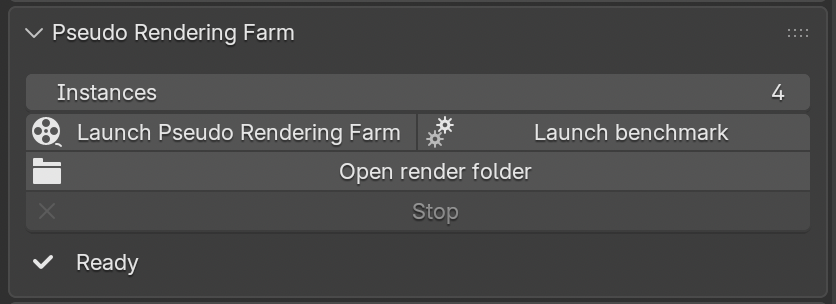
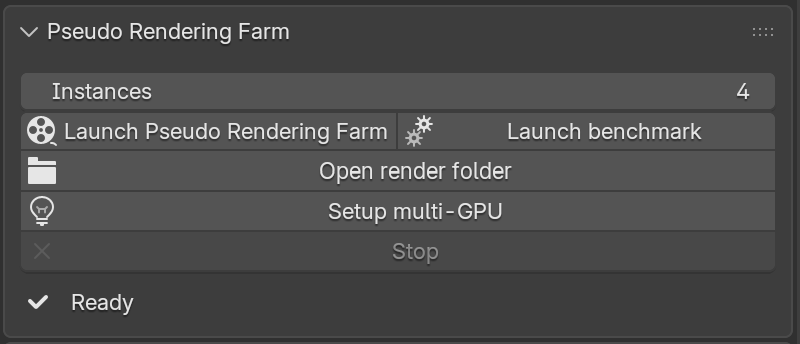
Add multi-GPU support (#12)

diff --git a/__init__.py b/__init__.py
@@ -2,6 +2,7 @@ import bpy
 import os
 from pathlib import Path
 import platform
+import re
 import shutil
 import subprocess
 import tempfile
@@ -24,6 +25,20 @@ class Globals:
     declining_streak = 0
     peak_throughput = 0
 
+    gpu_detection_active = False
+    userpref_process = None
+    userpref_path = ""
+
+    dummy_scene_process = None
+
+    gpu_discovery_processes = []
+
+    gpu_devices = []
+    gpu_devices_envs = []
+    gpu_detected = False
+    gpu_configured = False
+    gpu_config_dir = ""
+
 
 def is_image_valid(filepath):
     """Checks if an image file is complete by looking for format-specific footers."""
@@ -44,7 +59,7 @@ def is_image_valid(filepath):
             elif ext == ".exr":
                 return os.path.getsize(filepath) > 1000
     except Exception as e:
-        print(f"Error checking {filepath}: {e}")
+        print(f"PseudoRenderingFarm: Error checking {filepath}: {e}")
         return False
 
     return True
@@ -67,7 +82,7 @@ def cleanup_corrupted_frames():
                     os.remove(file_path)
                     deleted_count += 1
                 except Exception as e:
-                    print(f"Failed to delete {filename}: {e}")
+                    print(f"PseudoRenderingFarm: Failed to delete {filename}: {e}")
 
     return deleted_count
 
@@ -115,7 +130,7 @@ def check_render_status():
         if (
             Globals.early_exit_benchmark
             or Globals.current_bench_instances >= 16
-            or Globals.declining_streak >= 2
+            or Globals.declining_streak >= 2 * max(len(Globals.gpu_devices), 1)
         ):
             best_count = max(
                 Globals.benchmark_results, key=Globals.benchmark_results.get
@@ -133,7 +148,7 @@ def check_render_status():
                     icon="CHECKMARK",
                 )
 
-            print(f"!!! Benchmarking stats for nerds !!!")
+            print(f"PseudoRenderingFarm: !!! Benchmarking stats for nerds !!!")
             print(Globals.benchmark_results)
 
             bpy.context.window_manager.popup_menu(
@@ -175,6 +190,129 @@ def check_render_status():
         return None
 
     return 1.0
+
+
+def check_multi_gpu_status():
+    setup_multi_gpu()
+    if Globals.gpu_configured:
+        for window in bpy.context.window_manager.windows:
+            for area in window.screen.areas:
+                area.tag_redraw()
+        return None
+
+    return 1.0
+
+
+def detect_gpus():
+    if Globals.gpu_detected:
+        return
+    Globals.gpu_detected = True
+    Globals.gpu_devices_envs = [os.environ.copy()]
+
+    try:
+        if "VULKAN" not in bpy.context.preferences.system.gpu_backend:
+            print("PseudoRenderingFarm: Non-Vulkan backend, multi-GPU not available")
+            return
+        try:
+            bpy.context.preferences.system.gpu_preferred_device = "___invalid___"
+        except TypeError as e:
+            Globals.gpu_devices = [
+                d for d in re.findall(r"'([^']+)'", str(e)) if d != "AUTO"
+            ]
+    except Exception as e:
+        print(f"PseudoRenderingFarm: GPU detection failed: {e}")
+
+
+def setup_multi_gpu():
+    if not Globals.userpref_path:
+        if Globals.userpref_process is None:
+            expr = "import bpy, os; print('USERPREF:' + os.path.join(bpy.utils.resource_path('USER'), 'config', 'userpref.blend'))"
+
+            Globals.userpref_process = subprocess.Popen(
+                [bpy.app.binary_path, "-b", "--python-expr", expr],
+                stdout=subprocess.PIPE,
+                stderr=subprocess.PIPE,
+                text=True,
+            )
+            return
+        status = Globals.userpref_process.poll()
+        if status is not None:
+            stdout, stderr = Globals.userpref_process.communicate()
+
+            for line in (stdout + stderr).splitlines():
+                if line.startswith("USERPREF:"):
+                    Globals.userpref_path = line[len("USERPREF:") :]
+                    return
+
+    if Globals.gpu_config_dir:
+        Globals.gpu_config_dir = tempfile.mkdtemp(prefix="gpu_config_")
+    scene_path = os.path.join(Globals.gpu_config_dir, "temp_scene.blend")
+
+    if not os.path.isfile(scene_path):
+        if Globals.dummy_scene_process is None:
+            expr = f"import bpy; bpy.ops.wm.read_homefile(); bpy.ops.wm.save_as_mainfile(filepath=r'{scene_path}')"
+
+            Globals.dummy_scene_process = subprocess.Popen(
+                [bpy.app.binary_path, "-b", "--python-expr", expr],
+                stdout=subprocess.PIPE,
+                stderr=subprocess.PIPE,
+                text=True,
+            )
+            return
+        status = Globals.dummy_scene_process.poll()
+        if status is None:
+            return
+
+    if len(Globals.gpu_discovery_processes) == 0:
+        Globals.gpu_devices_envs = []
+        for i, gpu_name in enumerate(Globals.gpu_devices):
+            gpu_dir = os.path.join(Globals.gpu_config_dir, f"gpu_{i}")
+            os.makedirs(gpu_dir, exist_ok=True)
+            shutil.copy2(Globals.userpref_path, os.path.join(gpu_dir, "userpref.blend"))
+
+            env = os.environ.copy()
+            env["BLENDER_USER_CONFIG"] = gpu_dir
+
+            cmd = [
+                bpy.app.binary_path,
+                scene_path,
+                "--python-expr",
+                f"import bpy; bpy.context.preferences.system.gpu_preferred_device = '{gpu_name}'; bpy.ops.wm.save_userpref(); bpy.ops.wm.quit_blender()",
+            ]
+            Globals.gpu_discovery_processes.append(
+                subprocess.Popen(
+                    cmd,
+                    env=env,
+                    stdout=subprocess.PIPE,
+                    stderr=subprocess.PIPE,
+                    text=True,
+                )
+            )
+
+            Globals.gpu_devices_envs.append(env)
+
+        if not Globals.gpu_devices_envs:
+            Globals.gpu_devices_envs = [os.environ.copy()]
+            return
+
+    if all(p.poll() is not None for p in Globals.gpu_discovery_processes):
+        Globals.gpu_configured = True
+    return
+
+
+def cleanup_gpu_config():
+    if Globals.gpu_config_dir and os.path.exists(Globals.gpu_config_dir):
+        try:
+            shutil.rmtree(Globals.gpu_config_dir)
+        except Exception:
+            pass
+        Globals.gpu_config_dir = ""
+
+
+def get_env_for_instance(index):
+    if not Globals.gpu_devices_envs:
+        Globals.gpu_devices_envs = [os.environ.copy()]
+    return Globals.gpu_devices_envs[index % len(Globals.gpu_devices_envs)]
 
 
 """
@@ -219,7 +357,15 @@ class RENDER_OT_pseudo_rendering_farm(bpy.types.Operator):
         for i in range(num_instances):
             try:
                 Globals.active_render_processes.append(
-                    subprocess.Popen([blender_exe, "-b", file_path, "-a"])
+                    subprocess.Popen(
+                        [
+                            blender_exe,
+                            "-b",
+                            file_path,
+                            "-a",
+                        ],
+                        env=get_env_for_instance(i),
+                    )
                 )
             except Exception as e:
                 self.report({"ERROR"}, f"Failed to launch instance {i}: {str(e)}")
@@ -282,7 +428,7 @@ def launch_benchmark_iteration(context):
         Globals.bench_temp_dir, f"inst_{Globals.current_bench_instances}", "frame_"
     )
     os.makedirs(os.path.dirname(out_path), exist_ok=True)
-    for _ in range(Globals.current_bench_instances):
+    for i in range(Globals.current_bench_instances):
         cmd = [
             exe,
             "-b",
@@ -295,7 +441,10 @@ def launch_benchmark_iteration(context):
             str(frame_start + Globals.benchmark_frames - 1),
             "-a",
         ]
-        Globals.active_render_processes.append(subprocess.Popen(cmd))
+
+        Globals.active_render_processes.append(
+            subprocess.Popen(cmd, env=get_env_for_instance(i))
+        )
 
     if not bpy.app.timers.is_registered(check_render_status):
         bpy.app.timers.register(check_render_status)
@@ -337,6 +486,28 @@ class RENDER_OT_benchmarking(bpy.types.Operator):
 
 
 """
+Multi-GPU setup
+"""
+
+
+class RENDER_OT_setup_multi_gpu(bpy.types.Operator):
+    """Detect and setup multiple GPUs for parallel rendering"""
+
+    bl_idname = "render.setup_multi_gpu"
+    bl_label = "Setup multi-GPU"
+
+    def execute(self, context):
+        Globals.gpu_detection_active = True
+
+        if not bpy.app.timers.is_registered(check_multi_gpu_status):
+            bpy.app.timers.register(check_multi_gpu_status)
+
+        for area in context.screen.areas:
+            area.tag_redraw()
+        return {"FINISHED"}
+
+
+"""
 UI
 """
 
@@ -358,7 +529,6 @@ class RENDER_OT_open_folder(bpy.types.Operator):
         render_path = self.sanitize(context)
 
         if not os.path.exists(render_path):
-            print(f"Error: The folder '{render_path}' does not exist yet.")
             return
 
         current_os = platform.system()
@@ -407,12 +577,25 @@ class RENDER_PT_pseudo_rendering_farm_panel(bpy.types.Panel):
             "render.open_folder", icon="FILE_FOLDER", text="Open render folder"
         )
 
+        if len(Globals.gpu_devices) > 1:
+            if not Globals.gpu_configured:
+                gpu_row = col.row(align=True)
+                gpu_row.enabled = not is_running and not Globals.gpu_detection_active
+                gpu_row.operator("render.setup_multi_gpu", icon="LIGHT")
+
         row = col.row(align=True)
         cancel_row = row.row(align=True)
         cancel_row.enabled = is_running
         cancel_row.operator(
             "render.cancel_pseudo_rendering_farm", icon="X", text="Stop"
         )
+
+        if len(Globals.gpu_devices) > 1:
+            if Globals.gpu_configured:
+                layout.label(
+                    text=f"Multi-GPU: {len(Globals.gpu_devices)} devices",
+                    icon="PREFERENCES",
+                )
 
         if Globals.is_benchmarking:
             layout.label(text=Globals.bench_status_msg, icon="PLAY")
@@ -435,6 +618,7 @@ classes = [
     RENDER_OT_pseudo_rendering_farm,
     RENDER_OT_cancel_pseudo_rendering_farm,
     RENDER_OT_benchmarking,
+    RENDER_OT_setup_multi_gpu,
     RENDER_OT_open_folder,
     RENDER_PT_pseudo_rendering_farm_panel,
 ]
@@ -446,9 +630,11 @@ def register():
     bpy.types.Scene.pseudo_rendering_farm_instances = bpy.props.IntProperty(
         name="Instances", default=2, min=1, max=32
     )
+    detect_gpus()
 
 
 def unregister():
+    cleanup_gpu_config()
     for c in classes:
         bpy.utils.unregister_class(c)
     del bpy.types.Scene.pseudo_rendering_farm_instances

diff --git a/README.md b/README.md
@@ -27,6 +27,10 @@ After the installation you'd see the following user interface in the Render plan
 
 ![ui](doc/ui.png)
 
+If you're using the Vulkan backend, you can try an experimental multi-GPU setup. If your system has more than one GPUs and you're using a Vulkan backend, a `Setup multi-GPU` button will appear. When using it, a copy of your current user settings will be created in a temporary folder with a specific GPU selected. After a successful setup, the user interface would change to this, indicating the number of GPUs:
+
+![ui_multi_gpu](doc/ui_multi_gpu.png)
+
 ## Description
 
 To render each frame, Blender prepares the necessary data, sends it to the GPU and triggers the computations. With modern hardware and simple enough scene, the overhead of preparation might be similar or even exceeding the time it takes to produce a frame.
@@ -52,9 +56,13 @@ With a default cube scene, as simple as it gets, we can get a minor increase of 
 
 The same principle can be also applied for an animated series. Below are the collected numbers for an episode of [Funny Legs](https://www.youtube.com/watch?v=pM53SfAU2y8&list=PLsdnreF82vL400pWANHv3mRVyBop28bTb), a 2D show made in 3D in Blender (check out the [BCon 2025 talk](https://youtu.be/FLb-ow21gB0)!). Below are the measurements to render the whole episode of 810 frames.
 
-| Device \ Instance count  | 1       | 2       | 3       | 4       |
-|--------------------------|---------|---------|---------|---------|
-| Mac Mini M1 (8GB)        | 24m41s  | 18m27s  | 21m27s  | 26m21s  |
-| NVIDIA 4070 Super (12GB) | 6m53s   | 4m25s   | 3m15s   | 2m52s   |
-| NVIDIA 4090 (24GB)       | 4m49s   | 2m41s   | 2m16s   | 1m59s   |
-| Intel Arc Pro B70 (32GB) | 8m48s   | 5m57s   | 4m07s   | 3m50s   |
+| Device \ Instance count               | 1       | 2       | 3       | 4       |
+|---------------------------------------|---------|---------|---------|---------|
+| Mac Mini M1 (8GB)                     | 24m41s  | 18m27s  | 21m27s  | 26m21s  |
+| NVIDIA 4070 Super (12GB)              | 6m53s   | 4m25s   | 3m15s   | 2m52s   |
+| NVIDIA 4090 (24GB)                    | 4m49s   | 2m41s   | 2m16s   | 1m59s   |
+| Intel Arc Pro B70 (32GB)              | 8m48s   | 5m57s   | 4m07s   | 3m50s   |
+| NVIDIA 4060 (8GB)                     | 6m14s   | 4m41s   | 11m13s  | 19m53s  |
+| NVIDIA 4060 (8GB) + <br> NVIDIA 3060 (8GB) | 6m31s   | 3m33s   | 2m50s   | 2m16s   |
+
+Adding a second GPU solves the VRAM limitation, allowing to increase the number of parallel renders and speed things up.